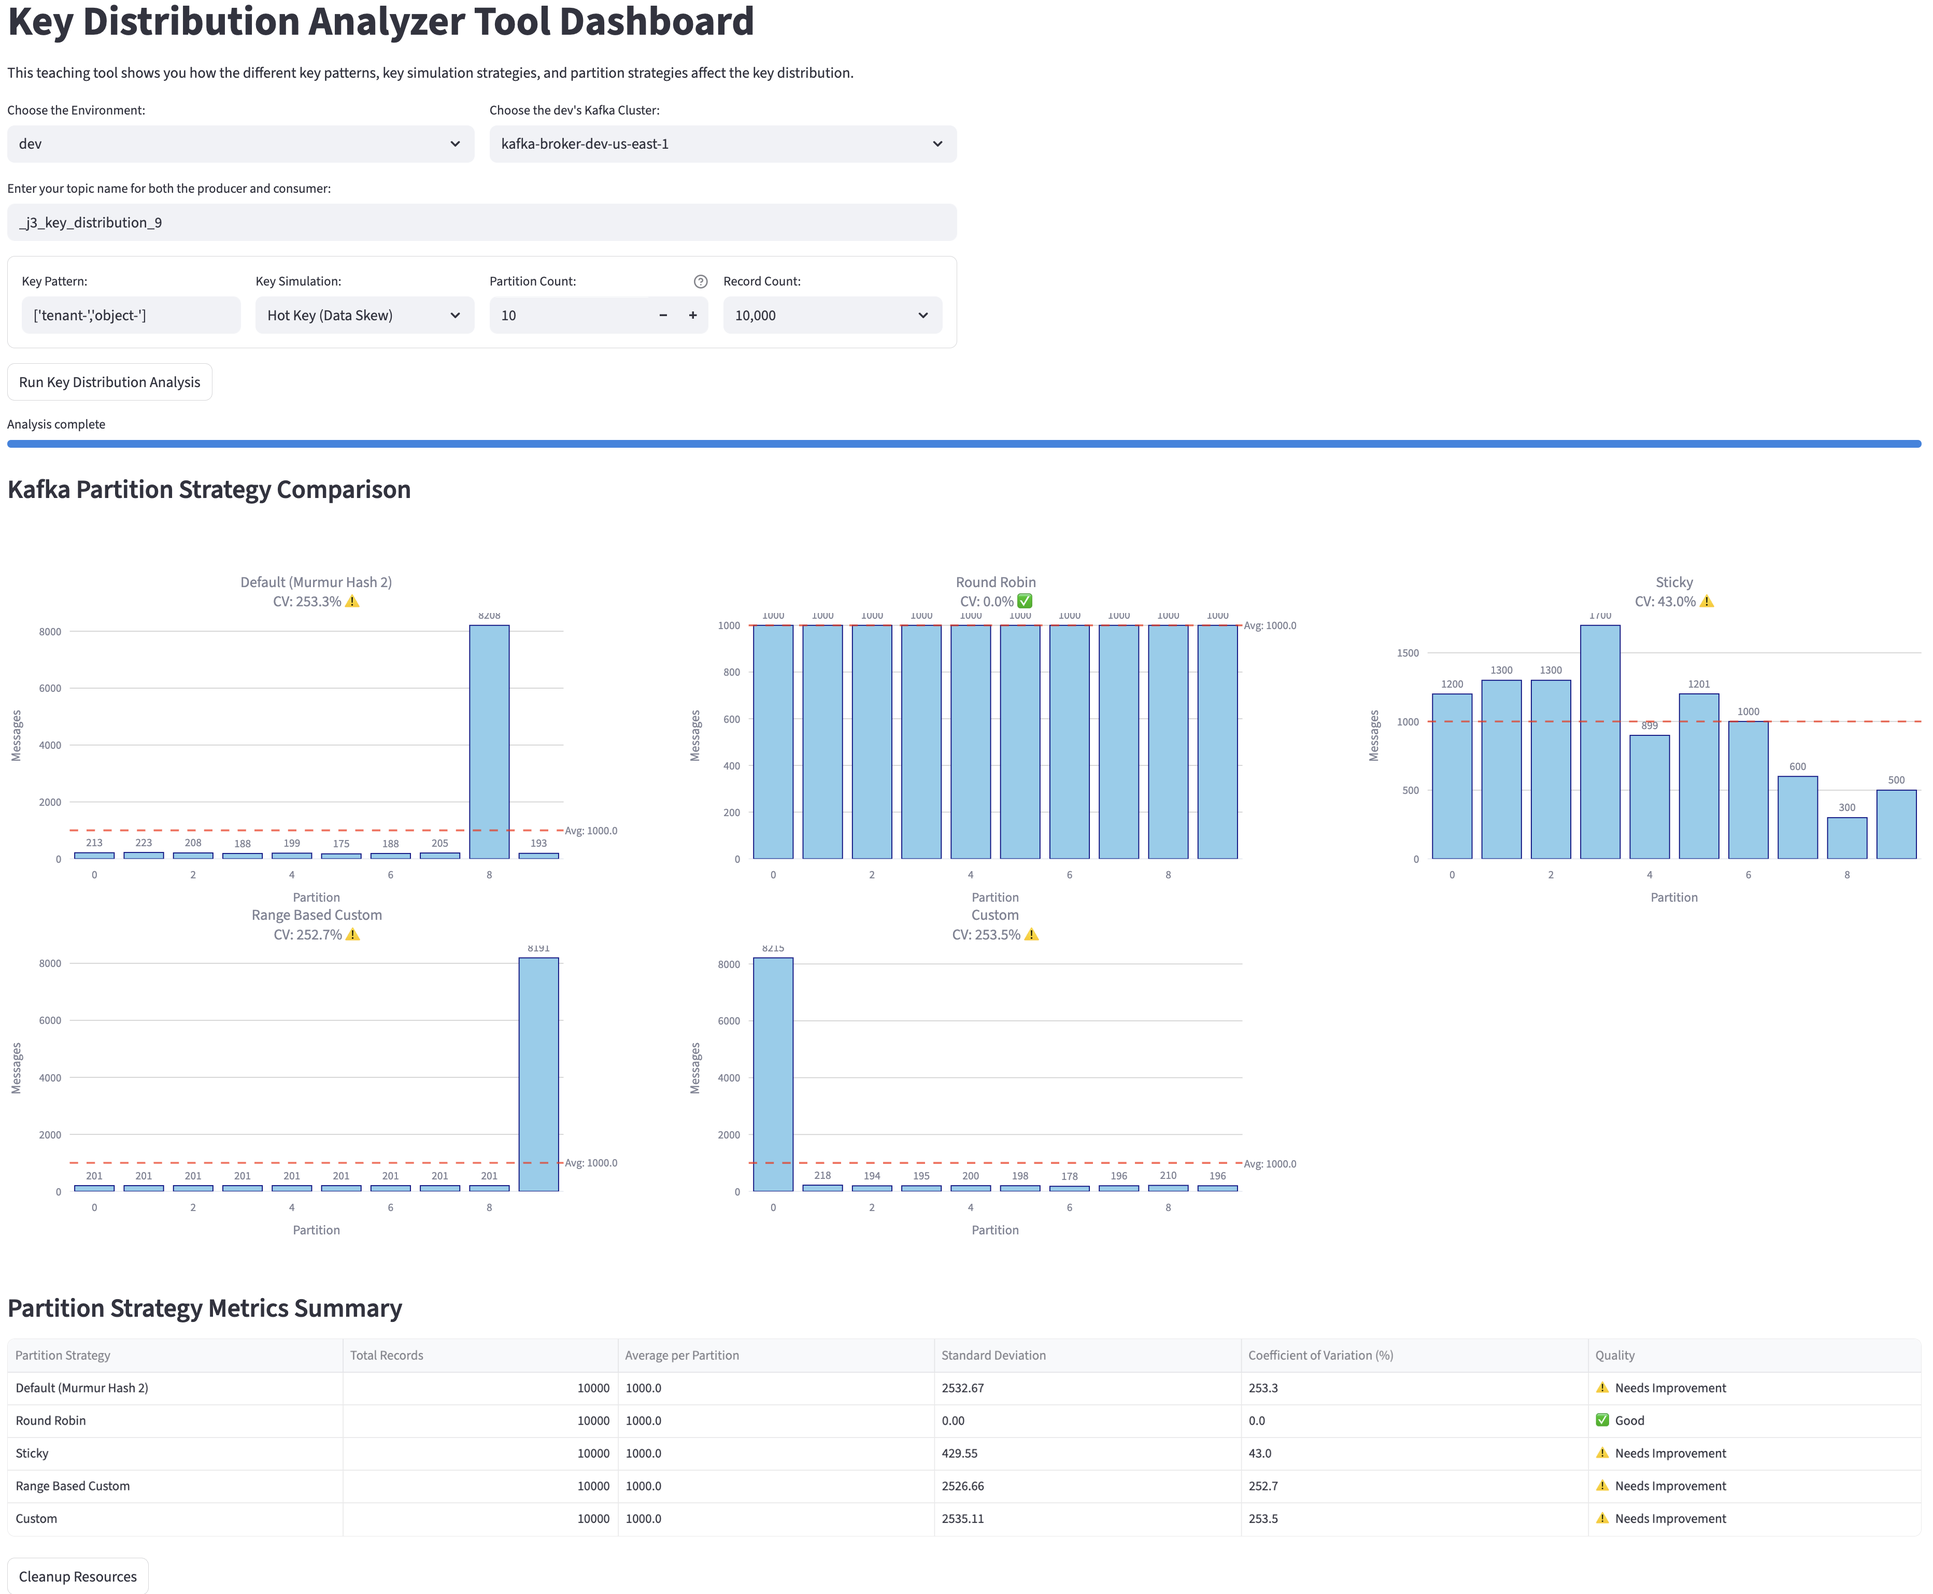
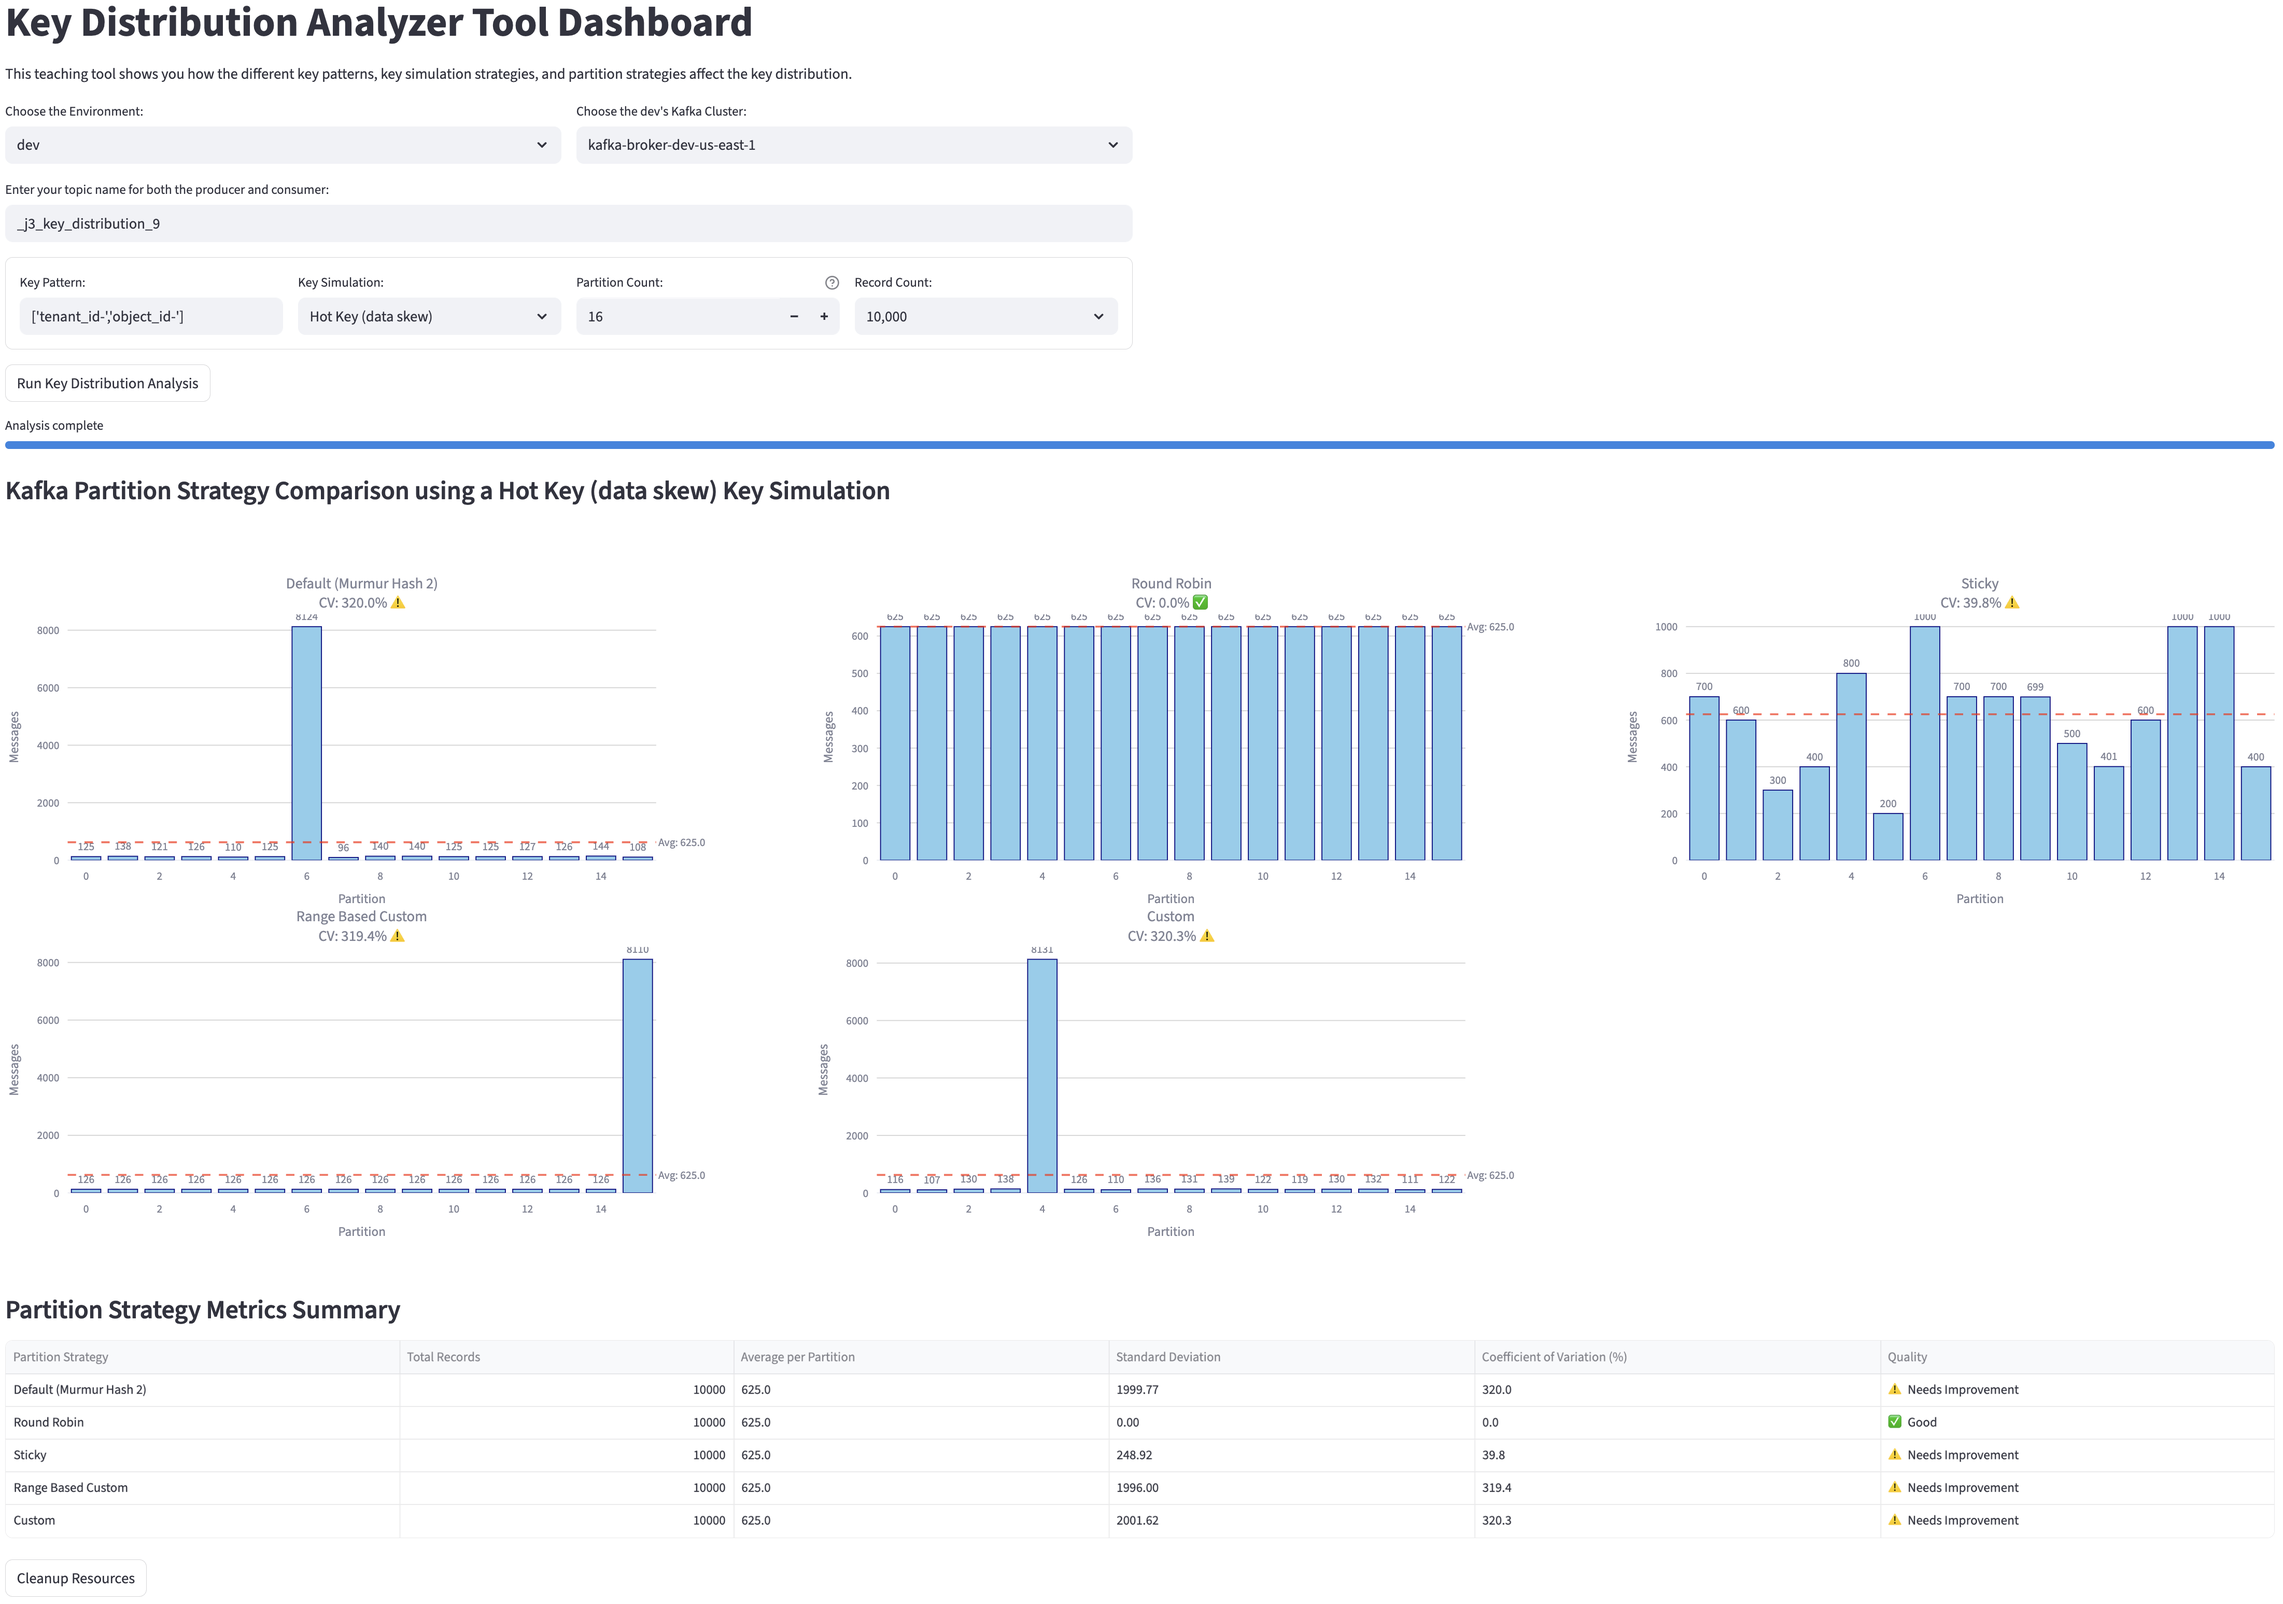
Resolved #89.

diff --git a/src/tool.py b/src/tool.py
@@ -74,6 +74,7 @@ def run_tests(kafka_cluster: Dict,
               key_pattern: List[str], 
               partition_count: int, 
               record_count: int,
+              key_simulation_name: str,
               key_simulation_type: int) -> Tuple[bool, str]:
     """Run the Key Distribution and Data Skew tests.
 
@@ -83,6 +84,7 @@ def run_tests(kafka_cluster: Dict,
         key_pattern (List[str]): List of key patterns to use.
         partition_count (int): Number of partitions for the producer topic.
         record_count (int): Number of records to produce.
+        key_simulation_name (str): Name of the key simulation to use.
         key_simulation_type (int): Key simulation type index.
 
     Return(s):
@@ -104,6 +106,7 @@ def run_tests(kafka_cluster: Dict,
                                                                      key_pattern=key_pattern,
                                                                      replication_factor=DEFAULT_KAFKA_TOPIC_REPLICATION_FACTOR,
                                                                      data_retention_in_days=DEFAULT_KAFKA_TOPIC_DATA_RETENTION_IN_DAYS,
+                                                                     key_simulation_name=key_simulation_name,
                                                                      key_simulation_type=key_simulation_type)
     if not distribution_results:
         return False, error_message
@@ -183,7 +186,7 @@ def main():
                     with col1:
                         key_pattern = st.text_input("Key Pattern:", placeholder=DEFAULT_KAFKA_TOPIC_KEY_PATTERN)
                     with col2:
-                        key_simulation_options = ["Normal", "Less Repetition", "More Repetition", "No Repetition", "Hot Key (Data Skew)"]
+                        key_simulation_options = ["Normal", "Less Repetition", "More Repetition", "No Repetition", "Hot Key (data skew)"]
                         selected_key_simulation = st.selectbox(index=0,
                                                                label='Key Simulation:',
                                                                options=key_simulation_options)
@@ -205,6 +208,7 @@ def main():
                                               key_pattern=ast.literal_eval(key_pattern) if key_pattern else DEFAULT_KAFKA_TOPIC_KEY_PATTERN,
                                               partition_count=partition_count,
                                               record_count=int(selected_record_count.replace(",", "")),
+                                              key_simulation_name=selected_key_simulation,
                                               key_simulation_type=selected_key_simulation_index)
             if not result:
                 st.error(error_message)

diff --git a/src/key_distribution_analyzer.py b/src/key_distribution_analyzer.py
@@ -436,13 +436,22 @@ class KeyDistributionAnalyzer:
             distribution[partition] += 1
         
         return distribution
-    
-    def __visualize_strategy_comparison(self, st: streamlit, strategy_results, partition_count: int) -> None:
-        """Create side-by-side comparison of all partition strategies using Streamlit"""
+
+    def __visualize_strategy_comparison(self, st: streamlit, key_simulation_name, strategy_results, partition_count: int) -> None:
+        """Visualize the comparison of partition strategies using Plotly in Streamlit.
+
+        Arg(s):
+            st (streamlit): Streamlit instance for visualization.
+            key_simulation_name (str): Name of the key simulation used.
+            strategy_results (Dict): Results of the partition strategies.
+            partition_count (int): Number of partitions.
+
+        Return(s):
+            None
+        """
+        st.subheader(f"Kafka Partition Strategy Comparison using a {key_simulation_name} Key Simulation")
         
-        st.subheader('Kafka Partition Strategy Comparison')
-        
-        # Create subplots with Plotly (better for Streamlit than matplotlib)
+        # Create subplots with Plotly
         rows = 2
         cols = 3
         fig = make_subplots(
@@ -541,6 +550,7 @@ class KeyDistributionAnalyzer:
                  key_pattern: List[str],
                  replication_factor: int, 
                  data_retention_in_days: int,
+                 key_simulation_name: str,
                  key_simulation_type: KeySimulationType) -> Tuple[Dict | None, str]:
         """Run the Key Distribution Test.
         Arg(s):
@@ -551,6 +561,7 @@ class KeyDistributionAnalyzer:
             key_pattern (List[str]): List of key patterns to use.
             replication_factor (int): Replication factor for the topic.
             data_retention_in_days (int): Data retention period in days.
+            key_simulation_name (str): Name of the key simulation to use.
             key_simulation_type (KeySimulationType): Type of key simulation to use.
 
         Return(s):
@@ -583,7 +594,7 @@ class KeyDistributionAnalyzer:
         for keys in self.partition_mapping.values():
             all_keys.extend(keys)
         strategy_results = self.__test_partition_strategies(all_keys, partition_count)
-        self.__visualize_strategy_comparison(st, strategy_results, partition_count)
+        self.__visualize_strategy_comparison(st, key_simulation_name, strategy_results, partition_count)
 
         # 5. Test theoretical hash distribution
         progress_bar.progress(0.625, text="Analyzing...  Theoretical hash distribution")
